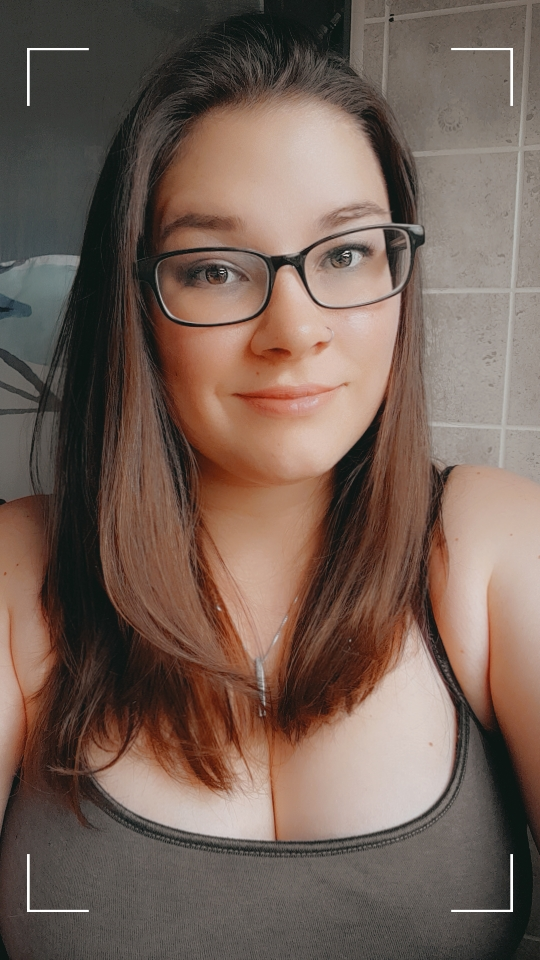
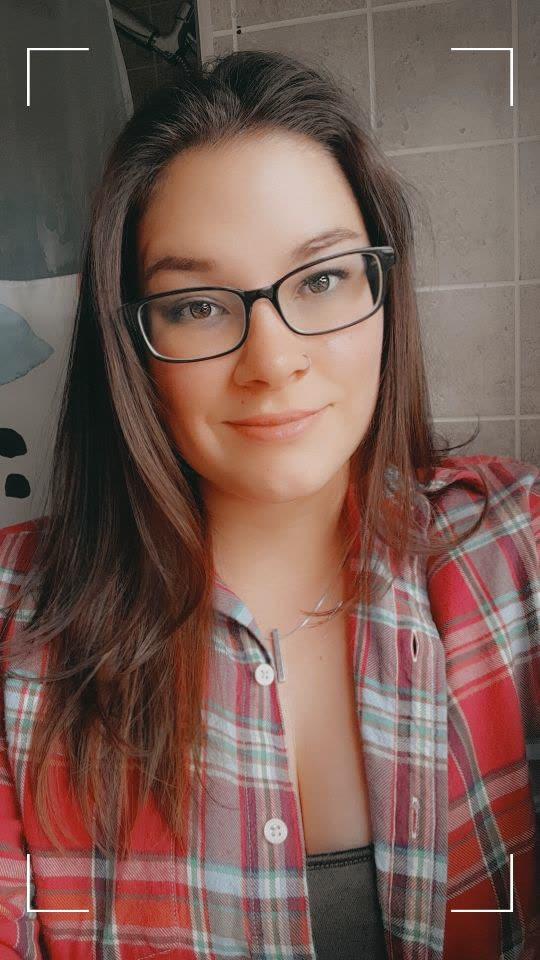
add project photos and bios, update portfolio picture

diff --git a/work.html b/work.html
@@ -46,7 +46,7 @@
     <!-- main content -->
     <main class="page-main">
         <section>
-            <h1> Work coming soon! </h1>
+            <h1> Check out my code and applications! </h1>
             <div class="grid">
                 <!-- Project 1-->
                 <div class="grid__item">
@@ -59,18 +59,29 @@
                 </div>
                 <!-- Project 2 -->
                 <div class="grid__item">
-                    <p> myFlix </p>
-                    <a href="#"> Check this out on Github </a>
+                    <a href="https://movie-selector-ads.netlify.app/login"> Movie Selector Client</a>
+                    <p> Movie Selector client is a React application that allows users to create a profile, login and
+                        browse movies from an API I wrote.
+                        User's can update their profiles, add and remove movies from their list of favorites,
+                        and open movie cards to view more movie information.
+                    </p>
+                    <img class="project_img" src="img/myFlix.png" />
+                    <a href="https://github.com/x-lamprocapnos-x/Movie-Selector-client"> Check this out on Github </a>
                 </div>
                 <!-- Project 3 -->
                 <div class="grid__item">
-                    <p> myFlix client </p>
-                    <a href="#"> Check this out </a>
+                    <a href=""> MyFlix Angular Client</a>
+                    <p> MyFlix Angular client is a typescript application that gives Users the ability to register and
+                        login to view movies.
+                        User's can update their profile and toggle movies to a list of favorite.
+                        Movies are displayed and can be opened to view more details of the movie. </p>
+                    <img class="project_img" src="img/angularMovie.png" />
+                    <a href="#"> Check this out on Github </a>
                 </div>
                 <!-- Project 4 -->
                 <div class="grid__item">
                     <a href="https://x-lamprocapnos-x.github.io/meet/"> Meet </a>
-                    <p> Meet is a react app made by following the test driven developement method,
+                    <p> Meet is a React app made by following the test driven developement method,
                         using AWS serverless functions and the google calendar api. </p>
                     <img class="project_img" src="img/meet.png" />
                     <a href="https://github.com/x-lamprocapnos-x/meet"> Check out this project on Github </a>
@@ -85,8 +96,14 @@
                 </div>
                 <!-- Project 6 -->
                 <div class="grid__item">
-                    <p> project 6</p>
-                    <a href="#"> see project 6 here </a>
+                    <a href=""> Chat App </a>
+                    <p> Chat is a React Native app for anonymous real-time conversations.
+                        Users can take photos, share saved ones, and send their location.
+                        Upon opening, you can pick a name and customize the chat screen with preset backgrounds.
+                        Firebase handles authentication and storage.
+                    </p>
+                    <img class="project_img" src="img/chatPics.png">
+                    <a href="https://github.com/x-lamprocapnos-x/chat"> Check out this Project on Github </a>
                 </div>
             </div>
 
@@ -113,9 +130,9 @@
                 <!--Instagram Logo-->
                 <img src="img/svg/instagram.svg" alt="Instagram icon" height="50" width="50">
             </a>
-            <!--Twitter Link-->
-            <a href="https://twitter.com/_lamprocapnos_" target="_blank">
-                <!--Twitter Logo-->
+            <!--X Link-->
+            <a href="https://x.com/_lamprocapnos_" target="_blank">
+                <!--X Logo-->
                 <img src="img/svg/twitter.svg" alt="Twitter icon" height="50" width="50">
             </a>
             <!--Linkdin Link-->
